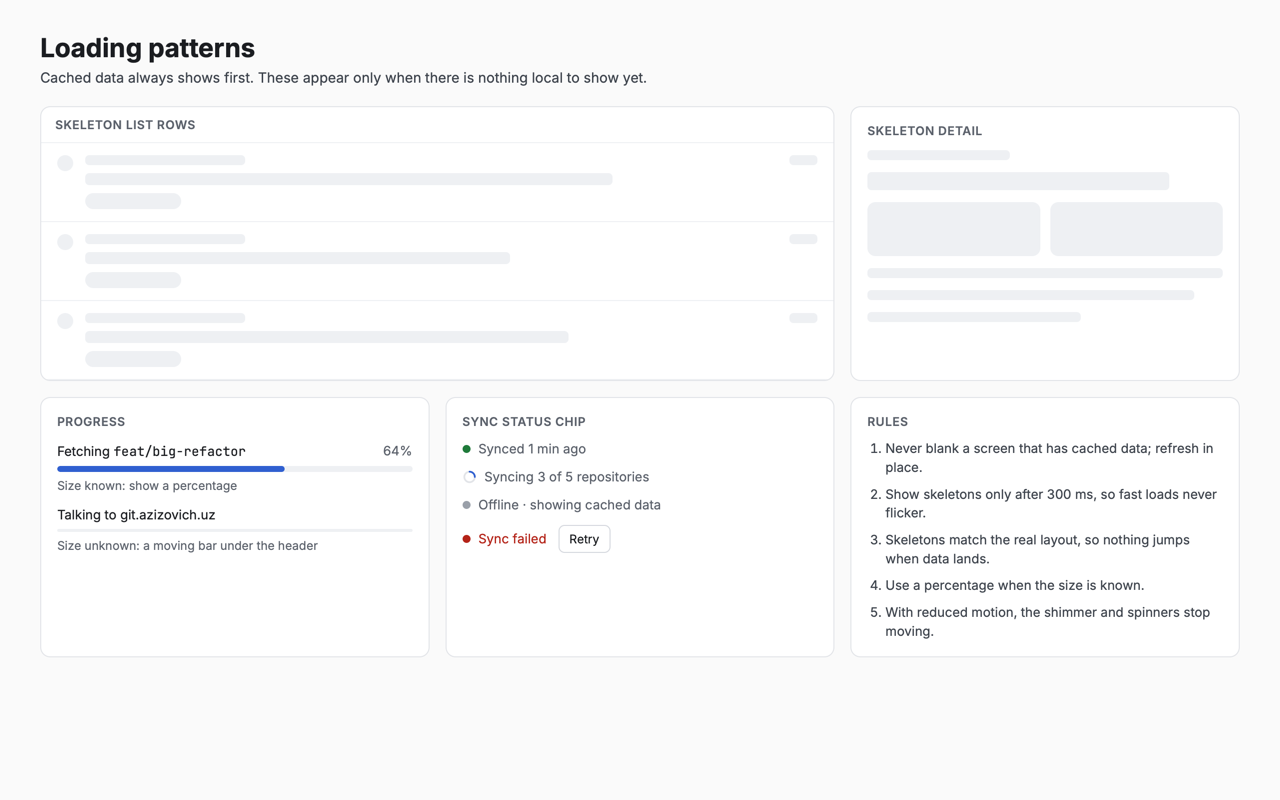
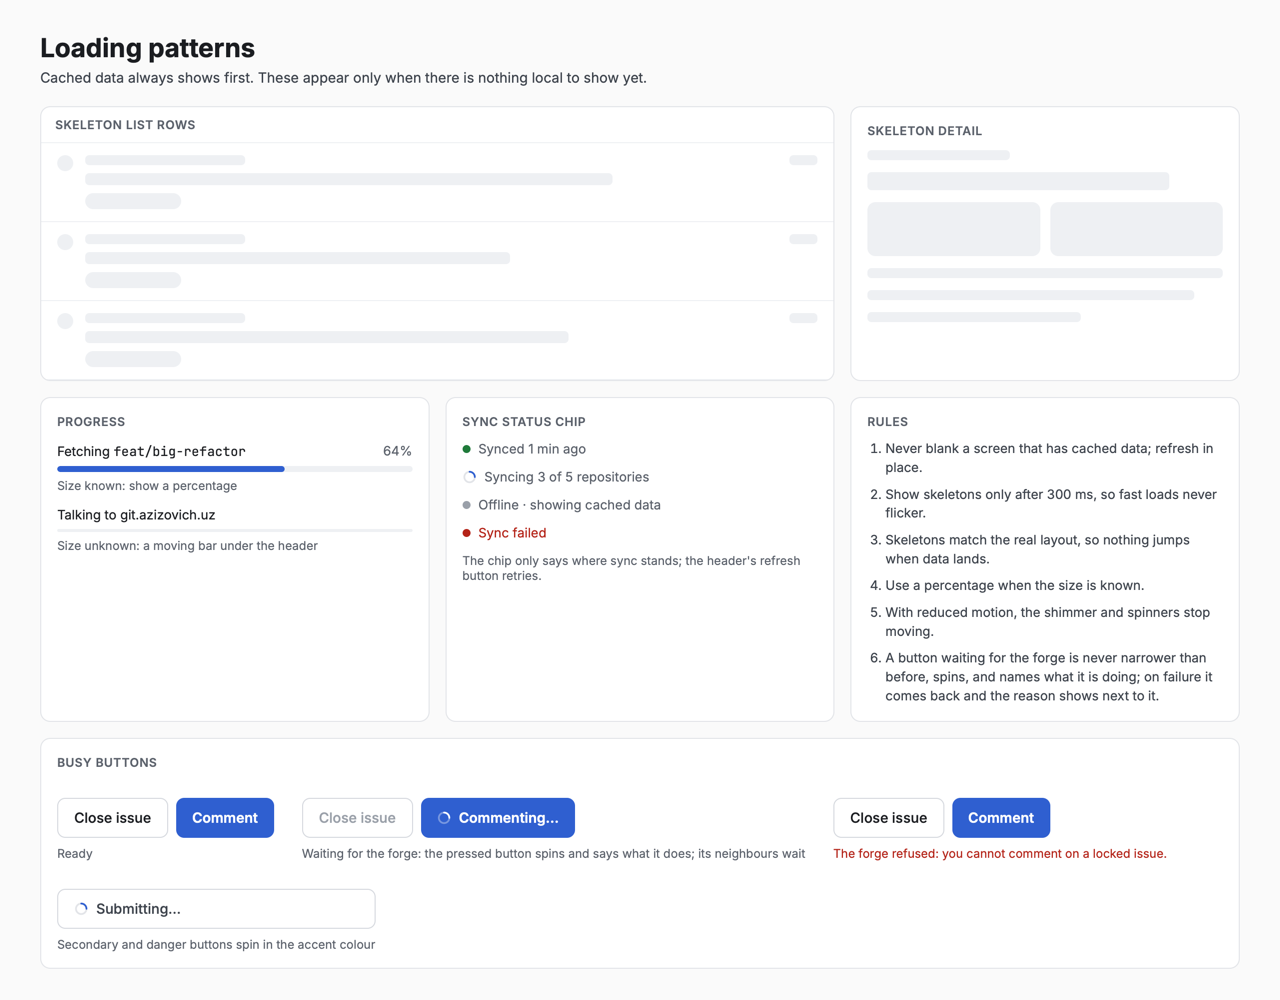
docs: review threads, diff options and busy buttons (#183)
Screens designed on the canvas, written up with their screenshots.

diff --git a/docs/DESIGN.md b/docs/DESIGN.md
@@ -163,6 +163,25 @@ Dark screens use the same layouts with the dark token values.
 
    ![Pull request files](design/pull-request-files.png)
 
+   **Review threads.** Every thread stays in the diff, so a second review
+   still shows what was said. Open threads are expanded; resolved ones are
+   one collapsed line at their place saying who resolved them and how the
+   thread started. A thread whose line changed since sits at the nearest
+   line that still exists, marked Outdated, with the code it was about. A
+   "new reply" tag marks what was said since your last review. The file
+   list counts open, resolved and outdated threads; All threads, Open only
+   and Hidden filter them; the review panel lists every thread to jump
+   to. A thread you open stays open until you hide it.
+
+   ![Review threads](design/review-threads.png)
+
+   **Diff options.** Unified or split, hide whitespace-only changes,
+   highlight the changed words in a line, and expand the context 20 lines
+   at a time or to the next change. The choice is kept per pull request;
+   Settings has the default.
+
+   ![Diff options](design/diff-options.png)
+
 10. **Checks.** Check runs on the left; log viewer on the right with
     failing lines highlighted; re-run and copy log.
 
@@ -204,8 +223,13 @@ nothing local to show yet.
 5. With reduced motion, the shimmer and spinners stop moving.
 
 The sync status in the header has four states: synced, syncing (spinner
-with progress), offline (showing cached data) and sync failed (with
-Retry).
+with progress), offline (showing cached data) and sync failed. The chip
+only says where sync stands; the refresh button next to it syncs again.
+
+**Busy buttons.** A button waiting for the forge spins and names what it
+does ("Commenting…", "Merging…"); it is never narrower than before, and
+the buttons beside it wait too, so nothing is sent twice. On failure it
+comes back and the reason shows next to it.
 
 ![Loading patterns](design/loading-patterns.png)
 
@@ -226,6 +250,6 @@ as soon as they are available, and the ones in view render first.
 |---|---|
 | Everywhere | `Ctrl K` search and commands, `Ctrl R` sync now |
 | Inbox | `j` / `k` move, `Enter` open, `e` done, `Shift E` all done, `s` star, `o` open in browser |
-| Pull request files | `n` / `p` next / previous file, `c` comment on line, `v` mark viewed, `Ctrl Enter` submit review |
+| Pull request files | `n` / `p` next / previous file, `[` / `]` previous / next thread, `r` reply, `c` comment on line, `v` mark viewed, `s` split, `w` whitespace, `x` expand context, `Ctrl Enter` submit review |
 | Palette | `↑` / `↓` move, `Enter` open, `Ctrl Enter` open in browser, `Esc` close |
 | Creating | `Ctrl Shift P` new pull request, `Ctrl Shift I` new issue |
